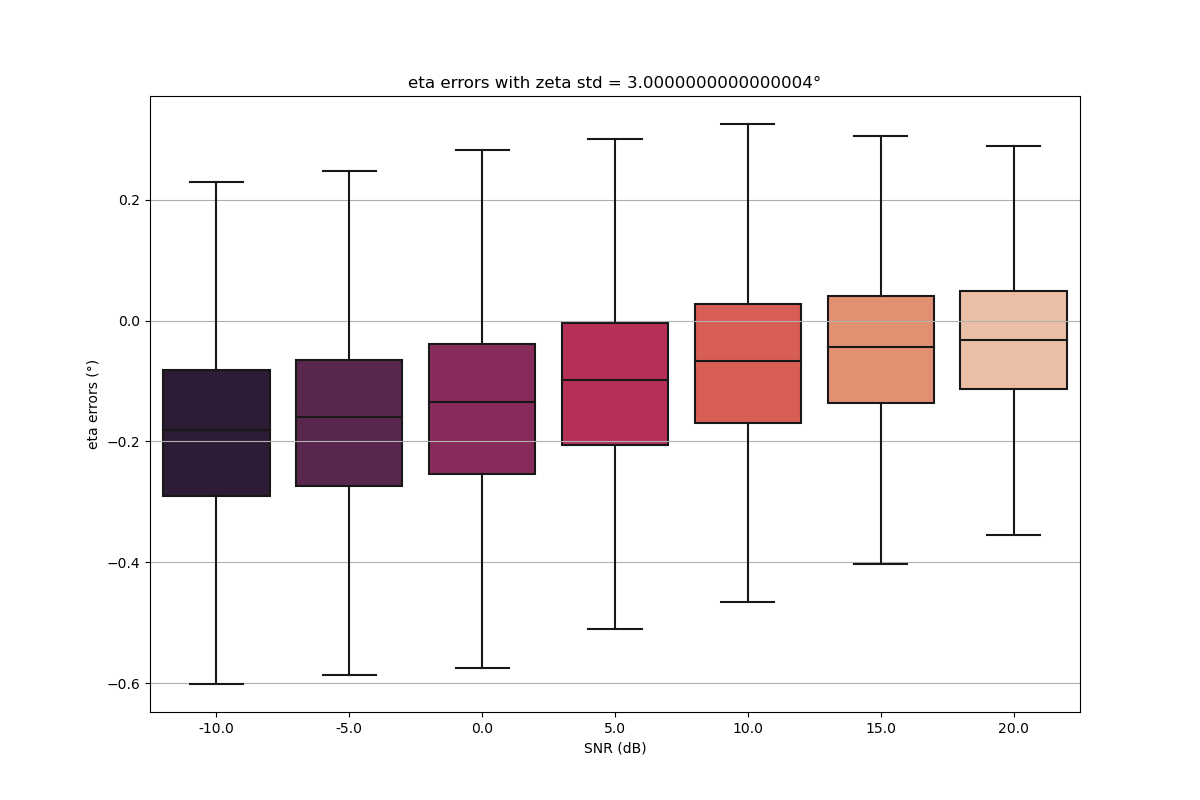
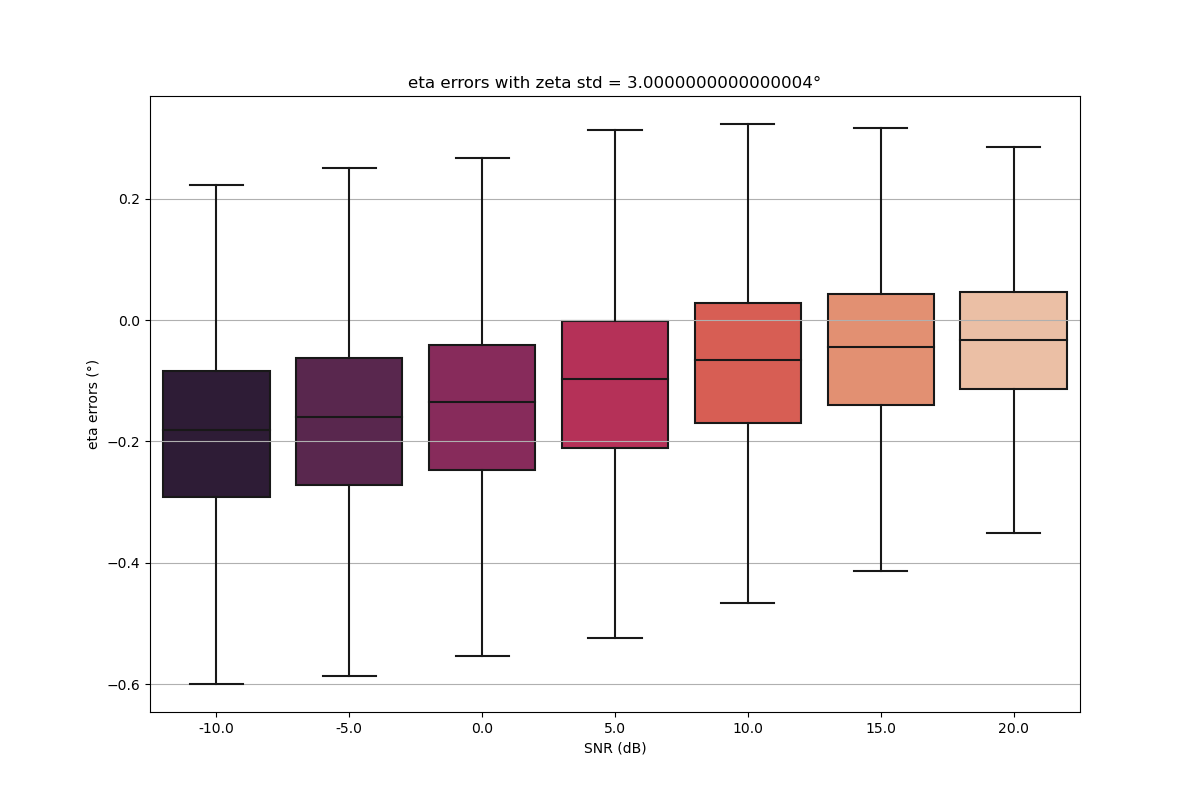
simulation ok with phase diff

diff --git a/simulation.py b/simulation.py
@@ -30,12 +30,12 @@ def solve_system(noise, zeta_std, phase_std, zetas, phases, T=0.27*10**(-3), l=0
     f_off = n_phases[3]/(2*np.pi*T)-((n_phases[2]-n_phases[3])*np.cos(eta[0])/(np.cos(n_zetas[2]-eta[0])-np.cos(eta[0])))
     return eta, f_d, v, f_off, alpha, delta, gamma, n_zetas
 
-def check_phases(eta, f_d, v, f_off, zetas, T=0.27*10**(-3), l=0.005):
+def check_phases(eta, f_d, v, f_off, zetas, T=0.27*10**(-3), l=0.005, k=1):
     c_phases = np.zeros(4)
-    c_phases[0] = (2*np.pi*T*(f_d+(v/l*np.cos(zetas[0]-eta))+f_off))#%np.pi 
-    c_phases[1] = (2*np.pi*T*(v/l*np.cos(zetas[1]-eta)+f_off))#%np.pi
-    c_phases[2] = (2*np.pi*T*(v/l*np.cos(zetas[2]-eta)+f_off))#%np.pi
-    c_phases[3] = (2*np.pi*T*(v/l*np.cos(eta)+f_off))#%np.pi
+    c_phases[0] = (2*np.pi*T*(f_d+(v/l*np.cos(zetas[0]-eta))+(k*f_off[0]-(k-1)*f_off[1])))#%np.pi
+    c_phases[1] = (2*np.pi*T*(v/l*np.cos(zetas[1]-eta)+(k*f_off[0]-(k-1)*f_off[1])))#%np.pi
+    c_phases[2] = (2*np.pi*T*(v/l*np.cos(zetas[2]-eta)+(k*f_off[0]-(k-1)*f_off[1])))#%np.pi
+    c_phases[3] = (2*np.pi*T*(v/l*np.cos(eta)+(k*f_off[0]-(k-1)*f_off[1])))#%np.pi
     return c_phases
 
 def boxplot_plot(errors, xlabel, ylabel, xticks, title, name=''):
@@ -60,9 +60,9 @@ def check_system():
             if c_phases[j]-phases[j] > 10**(-10):
                 print(c_phases[j]-phases[j])
 
-def get_input():
+def get_input(k=1):
     f_d = np.random.uniform(-1000,1000)
-    f_off = np.random.normal(100000,10000)
+    f_off = np.random.normal(100000,10000,2)
     v = np.random.uniform(-5,5)
     while True:
         check = True
@@ -77,8 +77,8 @@ def get_input():
                 #print('problem 2')
         if check:
             break
-    phases = check_phases(eta, f_d, v, f_off, zetas)
-    return phases, zetas, eta, f_d, v, f_off
+    phases = check_phases(eta, f_d, v, f_off, zetas, k=k)
+    return phases, zetas, eta, f_d, v, k*f_off[0]-(k-1)*f_off[1]
 
 SNR = np.array([-10,-5,0,5,10,15,20])
 SNR = np.power(10,SNR/10)
@@ -107,7 +107,7 @@ for z_std in np.deg2rad(zeta_std):
         tot_v_error.append(v_error)
         tot_f_off_error.append(f_off_error)
     boxplot_plot(tot_eta_error, "SNR (dB)", "eta errors (°)", 10*np.log10(SNR), "eta errors with zeta std = " + str(np.rad2deg(z_std)) + "°", 'eta_errors_zeta_std' + str(np.round(np.rad2deg(z_std),1)))
-    boxplot_plot(tot_f_d_error, "SNR (dB)", "frequency Doppler errors (Hz)", 10*np.log10(SNR), "frequency Doppler errors with zeta std = " + str(np.rad2deg(z_std)) + "°", 'fd_errors_zeta_std' + str(np.round(np.rad2deg(z_std),1)))
+    boxplot_plot(tot_f_d_error[2:], "SNR (dB)", "frequency Doppler errors (Hz)", 10*np.log10(SNR[2:]), "frequency Doppler errors with zeta std = " + str(np.rad2deg(z_std)) + "°", 'bfd_errors_zeta_std' + str(np.round(np.rad2deg(z_std),1)))
 
 print('eta mean error: ' + str(np.mean(eta_error)))
 print('Doppler mean error: ' + str(np.mean(f_d_error)))
